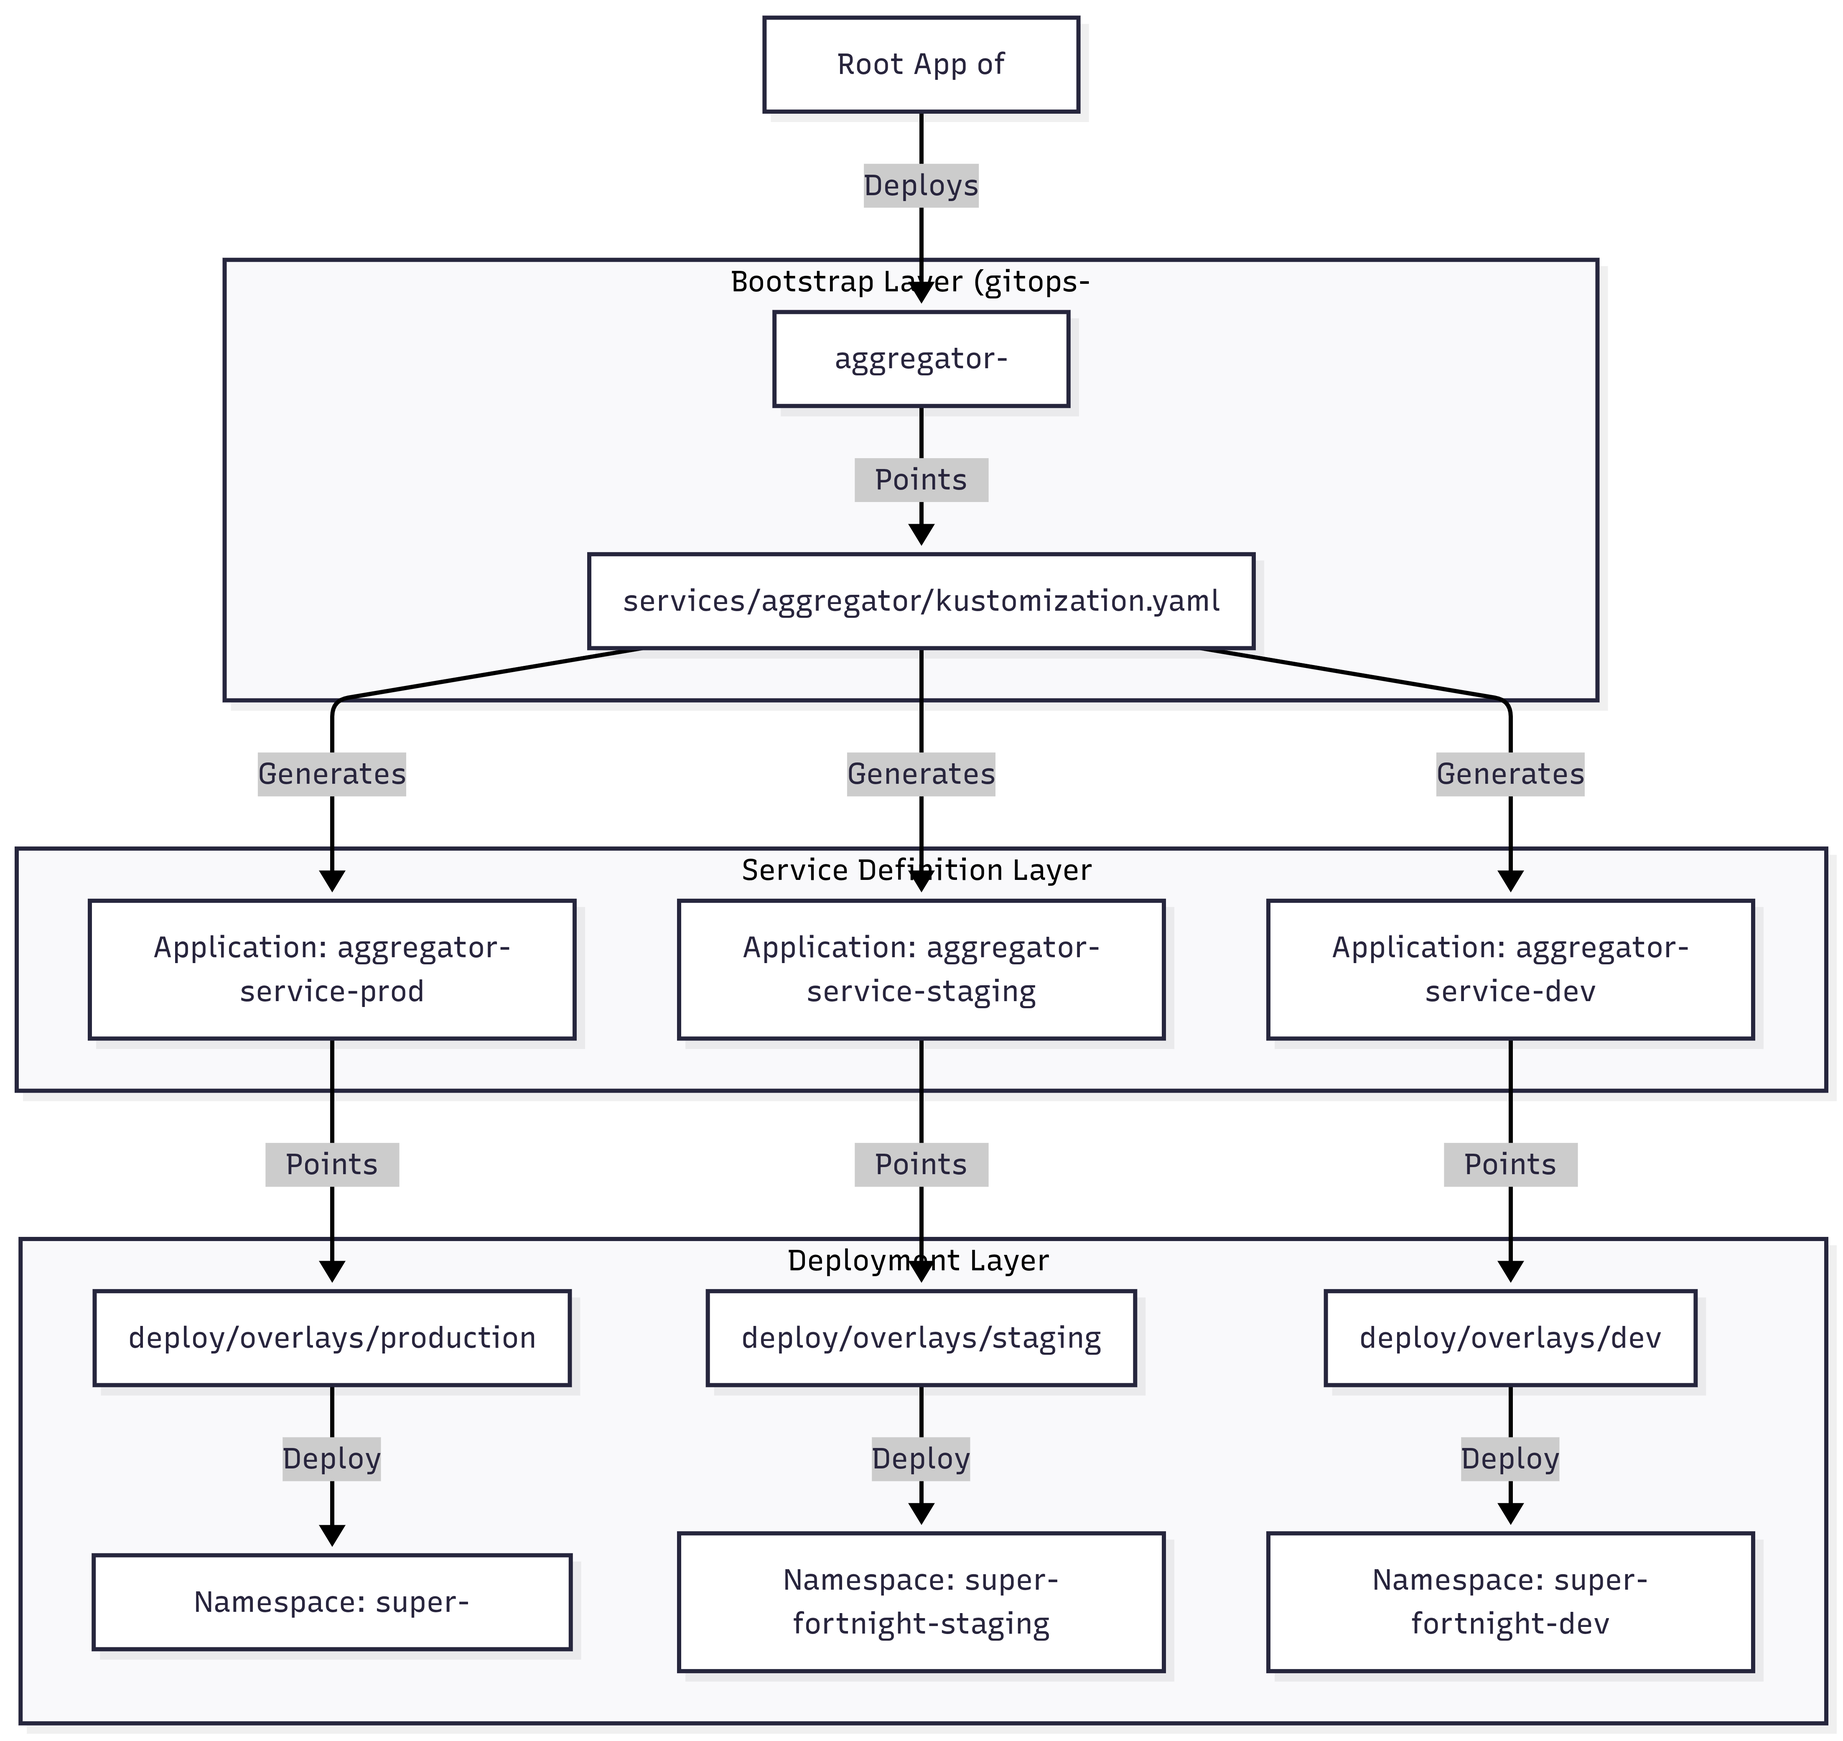
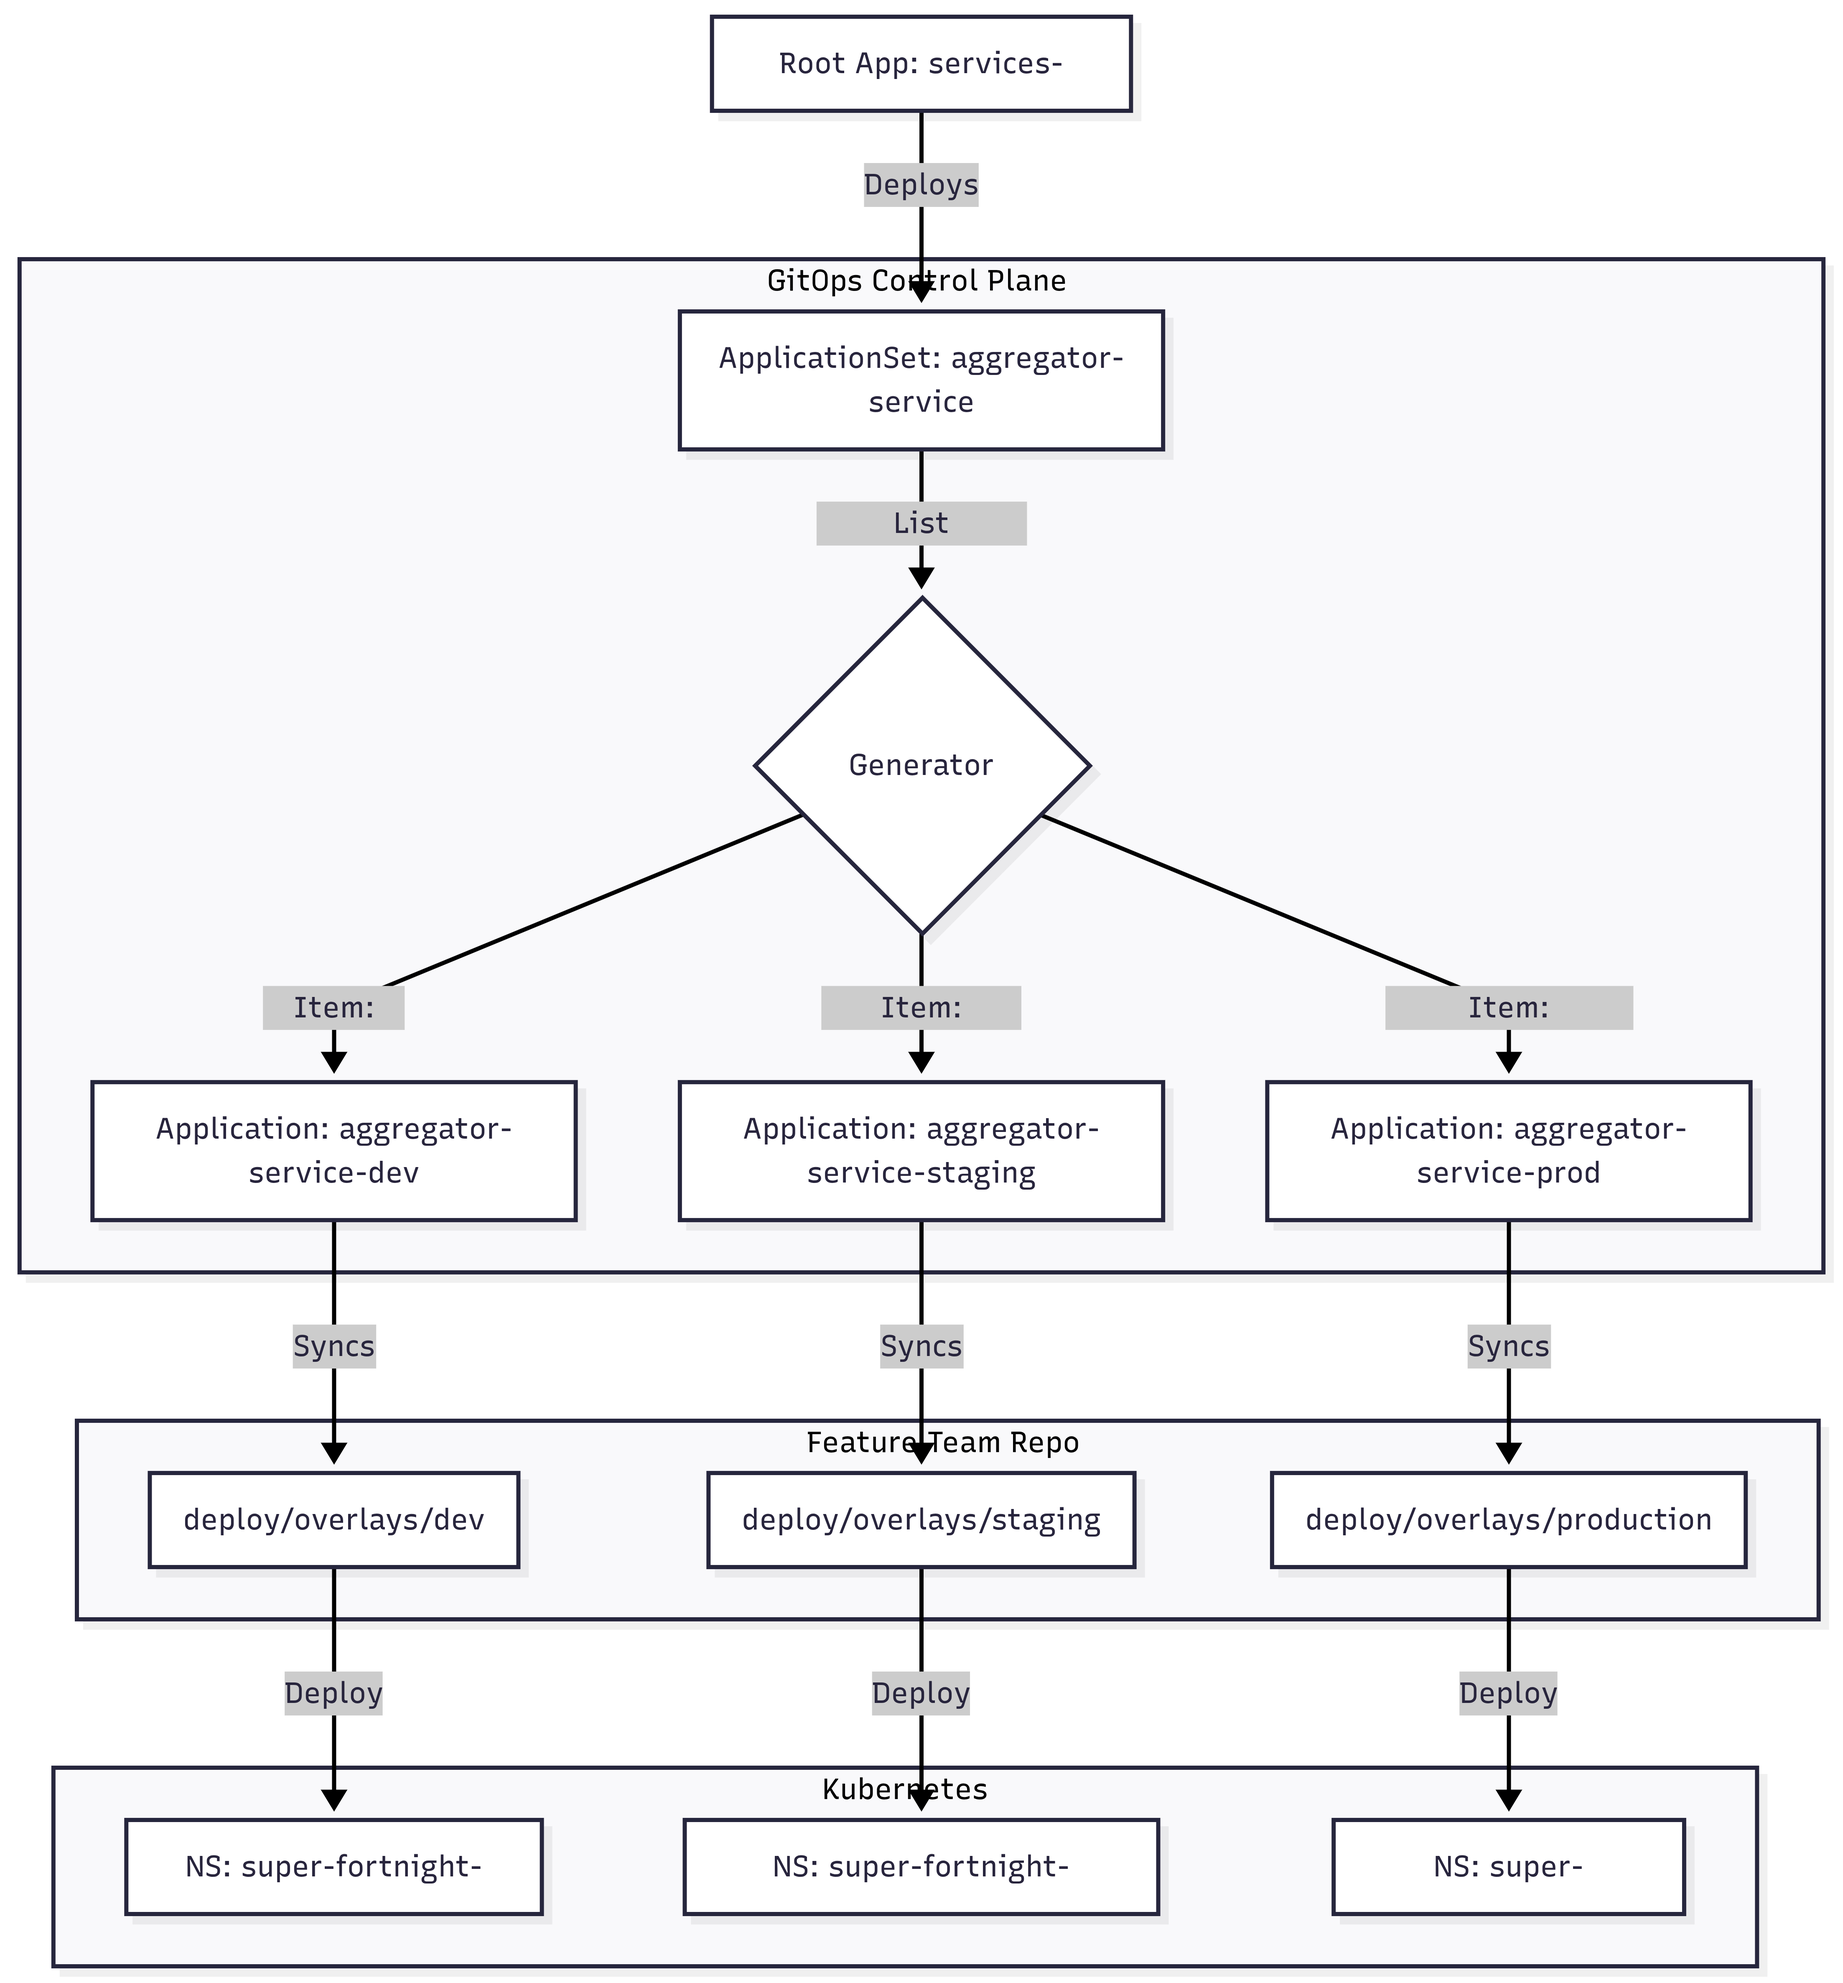
refactor: Migrate aggregator service deployment from Kustomize-based App of Apps to ArgoCD ApplicationSet.

Changed region(s): [[0.0, 0.0, 0.9941, 0.9988], [0.963, 0.1248, 0.9941, 0.1561], [0.0, 0.1248, 0.0311, 0.1561]]

diff --git a/README.md b/README.md
@@ -8,92 +8,81 @@ This repository hosts the **ArgoCD Application definitions** that drive the Supe
 gitops-v2/
 ├── argocd/
 │   └── apps/
-│       ├── services-apps.yaml    # Root App-of-Apps (The Big Bang)
-│       └── aggregator-app.yaml   # Bootstrap app for Aggregator Service
-├── services/
-│   └── aggregator/               # Kustomize definitions for Aggregator Service
-│       ├── base/
-│       │   ├── application.yaml  # Base Application template
-│       │   └── kustomization.yaml
-│       ├── overlays/
-│       │   ├── dev/              # Dev Environment Definition
-│       │   ├── staging/          # Staging Environment Definition
-│       │   └── prod/             # Production Environment Definition
-│       └── kustomization.yaml    # Root "Switchboard" for this service
+│       ├── services-apps.yaml      # Root App-of-Apps
+│       └── aggregator-appset.yaml  # ApplicationSet for Aggregator Service
 ```
 
-## The "App of Apps" Cascading Flow
+## The ApplicationSet Pattern
 
-We use a cascading "App of Apps" pattern to enable single-click deployment of entire service ecosystems.
+We use **ArgoCD ApplicationSets** to dynamically manage potential environments for a service. This eliminates the need for manual file duplication.
 
 ### Flow Diagram
 
-```mermaid
-graph TD
-    %% Root of everything
-    AoA[Root App of Apps] -->|Deploys| AggBoot[aggregator-app]
-
-    %% Bootstrap App Layer
-    subgraph "Bootstrap Layer (gitops-v2)"
-    AggBoot -->|Points to| AggSwitch[services/aggregator/kustomization.yaml]
-    end
-
-    %% Service App Definition Layer
-    subgraph "Service Definition Layer"
-    AggSwitch -->|Generates| AppDev[Application: aggregator-service-dev]
-    AggSwitch -->|Generates| AppStage[Application: aggregator-service-staging]
-    AggSwitch -->|Generates| AppProd[Application: aggregator-service-prod]
-    end
-
-    %% Actual Service Deployment Layer
-    subgraph "Deployment Layer (feature team repo)"
-    AppDev -->|Points to| DevOverlay[deploy/overlays/dev]
-    AppStage -->|Points to| StageOverlay[deploy/overlays/staging]
-    AppProd -->|Points to| ProdOverlay[deploy/overlays/production]
-
-    DevOverlay -->|Deploy| K8sDev[Namespace: super-fortnight-dev]
-    StageOverlay -->|Deploy| K8sStage[Namespace: super-fortnight-staging]
-    ProdOverlay -->|Deploy| K8sProd[Namespace: super-fortnight]
-    end
-```
-
 ![ArgoCD Service Deployment Flow](argocd-service-deployment-flow.png)
 
-### 1. Bootstrap Layer (`argocd/apps/`)
+```mermaid
+graph TD
+    %% Root
+    Root[Root App: services-apps] -->|Deploys| AppSet[ApplicationSet: aggregator-service]
 
-The `aggregator-app.yaml` is the entry point. It points to `services/aggregator/`.
+    %% ApplicationSet Logic
+    subgraph "GitOps Control Plane (gitops-v2)"
+    AppSet -->|List Generator| GenList{Generator List}
+    GenList -->|Item: dev| AppDev[Application: aggregator-service-dev]
+    GenList -->|Item: staging| AppStage[Application: aggregator-service-staging]
+    GenList -->|Item: production| AppProd[Application: aggregator-service-prod]
+    end
 
-### 2. Service Definition Layer (`services/aggregator/`)
+    %% Deployment Layer
+    subgraph "Feature Team Repo (aggregator-service)"
+    AppDev -->|Syncs| OverlayDev[deploy/overlays/dev]
+    AppStage -->|Syncs| OverlayStage[deploy/overlays/staging]
+    AppProd -->|Syncs| OverlayProd[deploy/overlays/production]
+    end
 
-This directory contains a **Kustomize** build that generates the actual ArgoCD `Application` resources.
-
-- **`base/application.yaml`**: The template for the ArgoCD Application.
-- **`overlays/`**: Environment-specific patches (target namespace, repo path, etc.).
-- **`kustomization.yaml`**: The **Switchboard**.
-
-### 3. The Switchboard
-
-The root `services/aggregator/kustomization.yaml` controls which environments are active.
-
-**To enable all environments:**
-
-```yaml
-resources:
-  - overlays/dev
-  - overlays/staging
-  - overlays/prod
+    %% Cluster Layer
+    subgraph "Kubernetes Cluster"
+    OverlayDev -->|Deploy| NS-Dev[NS: super-fortnight-dev]
+    OverlayStage -->|Deploy| NS-Stage[NS: super-fortnight-staging]
+    OverlayProd -->|Deploy| NS-Prod[NS: super-fortnight]
+    end
 ```
 
-**To disable Production (e.g., during maintenance or initial rollout):**
+### Control Plane: `aggregator-appset.yaml`
+
+This file is the "Switchboard". It defines which environments are active using a simple list.
 
 ```yaml
-resources:
-  - overlays/dev
-  - overlays/staging
-  # - overlays/prod  <-- Just comment it out!
+spec:
+  generators:
+    - list:
+        elements:
+          - env: dev
+            namespace: super-fortnight-dev
+          - env: staging
+            namespace: super-fortnight-staging
+          - env: production
+            namespace: super-fortnight
 ```
 
-ArgoCD will automatically prune the Application resources for commented-out environments.
+### How to Manage Environments
+
+**To add an environment:**
+Simply add a new item to the list:
+
+```yaml
+- env: qa
+  namespace: super-fortnight-qa
+```
+
+**To remove an environment (undeploy):**
+Simply remove the item from the list. ArgoCD will automatically prune the associated Application and all its resources.
+
+### Benefits
+
+- **Configuration, not Code**: Enabling/disabling environments is just data.
+- **Dynamic**: No need to create new files for new environments.
+- **Self-Service**: Feature teams just need to ensure `deploy/overlays/<env>` exists in their repo.
 
 ## Feature Team Workflow
 
@@ -101,8 +90,15 @@ Feature teams don't typically touch this repository. They work in their own serv
 
 ## Adding a New Service
 
-1. Create directory `services/<new-service>`.
-2. Copy the structure from `services/aggregator/`.
-3. Update `base/application.yaml` with the new service's Git URL.
-4. Update `overlays/` with correct namespaces and paths.
-5. Create a bootstrap app in `argocd/apps/<new-service>-app.yaml`.
+1. Create `argocd/apps/<new-service>-appset.yaml`.
+2. Copy the content from `aggregator-appset.yaml`.
+3. Update `metadata.name` and `repoURL`.
+4. Define the active environments in the `list` generator.
+
+## Related Documentation
+
+For comprehensive documentation on the platform architecture and workflows, see the centralized documentation in **gitops-v3/docs/**:
+
+- [ApplicationSet Pattern Architecture](../gitops-v3/docs/architecture/applicationset-pattern.md)
+- [Cloud-Native Workflow](../gitops-v3/docs/architecture/cloud-native-workflow.md)
+- [Platform Team Guide](../gitops-v3/docs/guides/platform-team-guide.md)
